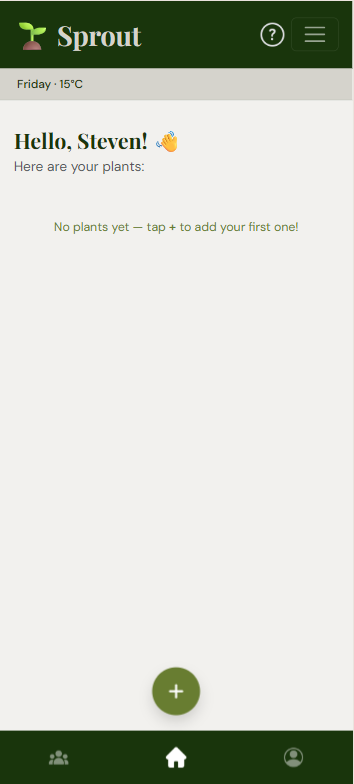
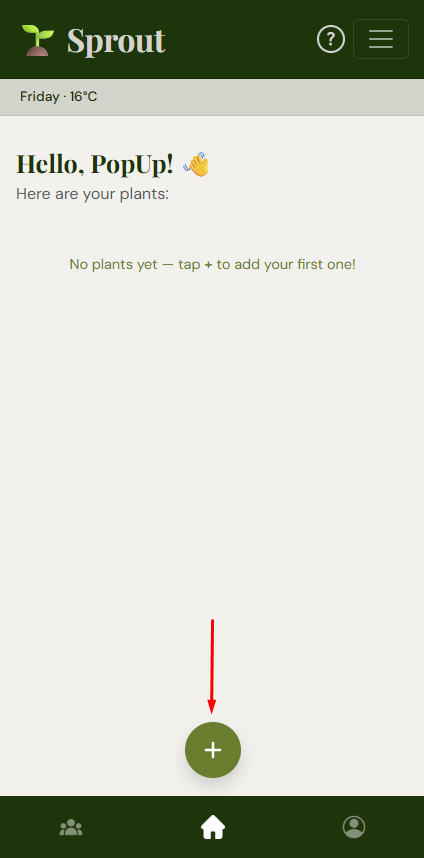
chore: updated guide images. feat: implemented guide pop up for first time sign up.

diff --git a/app.js b/app.js
@@ -99,7 +99,10 @@ app.use(
 
 // Render the main page
 app.get("/", requiredLogin, (req, res) => {
-  res.render("mainpage.ejs", { name: req.session.username });
+  res.render("mainpage.ejs", { 
+    name: req.session.username,
+    firstLogin: req.query.firstLogin === 'true'
+  });
 });
 
 // API endpoint to fetch plant types
@@ -198,7 +201,7 @@ app.post("/signup", async (req, res) => {
   req.session.email = email;
   req.session.username = username;
   req.session.cookie.maxAge = expireTime;
-  res.redirect("/");
+  res.redirect("/?firstLogin=true");
 });
 
 // Render the profile page

diff --git a/public/css/mainpage.css b/public/css/mainpage.css
@@ -164,9 +164,8 @@ body {
 #userGuideModal #guidePhotoDisplay {
   width: 100%;
   height: 100%;
-  /* 'cover' fills the box and crops the edges (hides overflow) */
-  /* 'contain' would show the whole image with bars on the sides */
-  object-fit: cover;
+  /* 'contain' shows the whole image without cropping */
+  object-fit: contain;
   display: block;
 }
 
